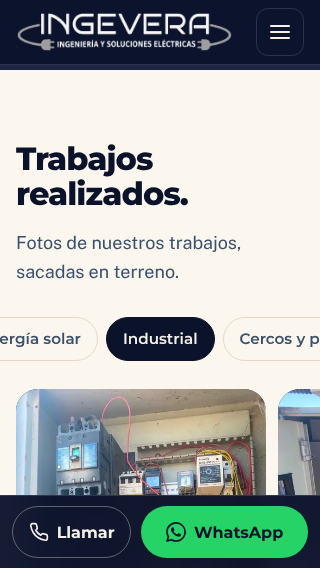
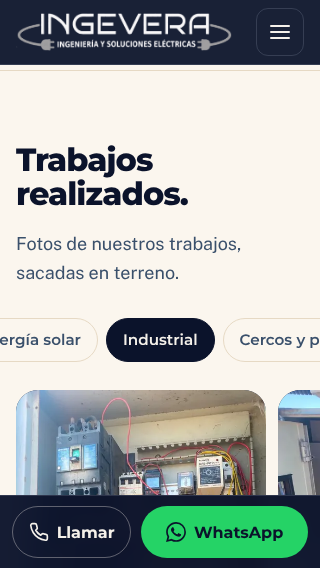
Mueve el carrusel de trabajos más arriba y lo pone primero en el menú
Claude-Session: https://claude.ai/code/session_01XSnBSsrrQd2tFnyhEzS5sg

diff --git a/index.html b/index.html
@@ -13,15 +13,15 @@
 <meta property="og:locale" content="es_CL">
 <meta property="og:title" content="INGEVERA · Ingeniería y Soluciones Eléctricas">
 <meta property="og:description" content="Desde la ampolleta hasta el empalme al poste. Electricidad para casas en Casablanca y arriendo de zanjadora.">
-<meta property="og:image" content="assets/img/icon-512.png?v=7">
+<meta property="og:image" content="assets/img/icon-512.png?v=8">
 <meta name="twitter:card" content="summary">
-<link rel="icon" type="image/svg+xml" href="favicon.svg?v=7">
-<link rel="icon" type="image/png" href="favicon.png?v=7" sizes="64x64">
-<link rel="apple-touch-icon" href="assets/img/apple-touch-icon.png?v=7">
+<link rel="icon" type="image/svg+xml" href="favicon.svg?v=8">
+<link rel="icon" type="image/png" href="favicon.png?v=8" sizes="64x64">
+<link rel="apple-touch-icon" href="assets/img/apple-touch-icon.png?v=8">
 <link rel="manifest" href="manifest.webmanifest">
 <link rel="preload" href="assets/fonts/Montserrat.woff2" as="font" type="font/woff2" crossorigin>
-<link rel="stylesheet" href="assets/fonts.css?v=7">
-<link rel="stylesheet" href="assets/styles.css?v=7">
+<link rel="stylesheet" href="assets/fonts.css?v=8">
+<link rel="stylesheet" href="assets/styles.css?v=8">
 <style>
 .splash{position:fixed;inset:0;z-index:200;display:none;overflow:hidden;color:#F5F1EA;background:radial-gradient(120% 70% at 50% 42%,#0E2A6B 0%,#081A48 45%,#050D26 100%);transition:opacity .6s cubic-bezier(.16,1,.3,1),visibility 0s .6s;-webkit-user-select:none;user-select:none}
 .splash-on .splash{display:block}
@@ -85,13 +85,13 @@
         </mask>
         <clipPath id="sp-l0" clipPathUnits="userSpaceOnUse"><rect x="322" y="325" width="30" height="160"/></clipPath><clipPath id="sp-l1" clipPathUnits="userSpaceOnUse"><rect x="370" y="325" width="151" height="160"/></clipPath><clipPath id="sp-l2" clipPathUnits="userSpaceOnUse"><rect x="536" y="325" width="152" height="160"/></clipPath><clipPath id="sp-l3" clipPathUnits="userSpaceOnUse"><rect x="706" y="325" width="133" height="160"/></clipPath><clipPath id="sp-l4" clipPathUnits="userSpaceOnUse"><rect x="845" y="325" width="165" height="160"/></clipPath><clipPath id="sp-l5" clipPathUnits="userSpaceOnUse"><rect x="1016" y="325" width="133" height="160"/></clipPath><clipPath id="sp-l6" clipPathUnits="userSpaceOnUse"><rect x="1164" y="325" width="147" height="160"/></clipPath><clipPath id="sp-l7" clipPathUnits="userSpaceOnUse"><rect x="1326" y="325" width="143" height="160"/></clipPath>
       </defs>
-      <image class="sp-c sp-c--tr" href="assets/img/sp-corner-tr.png?v=7" x="130" y="70" width="1500" height="760" preserveAspectRatio="none"/>
-      <image class="sp-c sp-c--bl" href="assets/img/sp-corner-bl.png?v=7" x="130" y="70" width="1500" height="760" preserveAspectRatio="none"/>
-      <image href="assets/img/sp-cable.png?v=7" x="130" y="70" width="1500" height="760" preserveAspectRatio="none" mask="url(#sp-wire)"/>
+      <image class="sp-c sp-c--tr" href="assets/img/sp-corner-tr.png?v=8" x="130" y="70" width="1500" height="760" preserveAspectRatio="none"/>
+      <image class="sp-c sp-c--bl" href="assets/img/sp-corner-bl.png?v=8" x="130" y="70" width="1500" height="760" preserveAspectRatio="none"/>
+      <image href="assets/img/sp-cable.png?v=8" x="130" y="70" width="1500" height="760" preserveAspectRatio="none" mask="url(#sp-wire)"/>
       <circle class="sp-spark" cx="428" cy="545" r="34"/>
       <circle class="sp-spark" cx="1376" cy="545" r="34"/>
-      <g class="sp-l" style="--i:0"><image href="assets/img/sp-word.png?v=7" x="130" y="70" width="1500" height="760" preserveAspectRatio="none" clip-path="url(#sp-l0)"/></g><g class="sp-l" style="--i:1"><image href="assets/img/sp-word.png?v=7" x="130" y="70" width="1500" height="760" preserveAspectRatio="none" clip-path="url(#sp-l1)"/></g><g class="sp-l" style="--i:2"><image href="assets/img/sp-word.png?v=7" x="130" y="70" width="1500" height="760" preserveAspectRatio="none" clip-path="url(#sp-l2)"/></g><g class="sp-l" style="--i:3"><image href="assets/img/sp-word.png?v=7" x="130" y="70" width="1500" height="760" preserveAspectRatio="none" clip-path="url(#sp-l3)"/></g><g class="sp-l" style="--i:4"><image href="assets/img/sp-word.png?v=7" x="130" y="70" width="1500" height="760" preserveAspectRatio="none" clip-path="url(#sp-l4)"/></g><g class="sp-l" style="--i:5"><image href="assets/img/sp-word.png?v=7" x="130" y="70" width="1500" height="760" preserveAspectRatio="none" clip-path="url(#sp-l5)"/></g><g class="sp-l" style="--i:6"><image href="assets/img/sp-word.png?v=7" x="130" y="70" width="1500" height="760" preserveAspectRatio="none" clip-path="url(#sp-l6)"/></g><g class="sp-l" style="--i:7"><image href="assets/img/sp-word.png?v=7" x="130" y="70" width="1500" height="760" preserveAspectRatio="none" clip-path="url(#sp-l7)"/></g>
-      <image class="sp-slogan" href="assets/img/sp-slogan.png?v=7" x="130" y="70" width="1500" height="760" preserveAspectRatio="none"/>
+      <g class="sp-l" style="--i:0"><image href="assets/img/sp-word.png?v=8" x="130" y="70" width="1500" height="760" preserveAspectRatio="none" clip-path="url(#sp-l0)"/></g><g class="sp-l" style="--i:1"><image href="assets/img/sp-word.png?v=8" x="130" y="70" width="1500" height="760" preserveAspectRatio="none" clip-path="url(#sp-l1)"/></g><g class="sp-l" style="--i:2"><image href="assets/img/sp-word.png?v=8" x="130" y="70" width="1500" height="760" preserveAspectRatio="none" clip-path="url(#sp-l2)"/></g><g class="sp-l" style="--i:3"><image href="assets/img/sp-word.png?v=8" x="130" y="70" width="1500" height="760" preserveAspectRatio="none" clip-path="url(#sp-l3)"/></g><g class="sp-l" style="--i:4"><image href="assets/img/sp-word.png?v=8" x="130" y="70" width="1500" height="760" preserveAspectRatio="none" clip-path="url(#sp-l4)"/></g><g class="sp-l" style="--i:5"><image href="assets/img/sp-word.png?v=8" x="130" y="70" width="1500" height="760" preserveAspectRatio="none" clip-path="url(#sp-l5)"/></g><g class="sp-l" style="--i:6"><image href="assets/img/sp-word.png?v=8" x="130" y="70" width="1500" height="760" preserveAspectRatio="none" clip-path="url(#sp-l6)"/></g><g class="sp-l" style="--i:7"><image href="assets/img/sp-word.png?v=8" x="130" y="70" width="1500" height="760" preserveAspectRatio="none" clip-path="url(#sp-l7)"/></g>
+      <image class="sp-slogan" href="assets/img/sp-slogan.png?v=8" x="130" y="70" width="1500" height="760" preserveAspectRatio="none"/>
     </svg>
     <div class="splash__load"><div class="splash__bar"><i></i></div><span>Cargando…</span></div>
   </div>
@@ -145,12 +145,12 @@ addEventListener('keydown',function(e){if(e.key==='Escape')end()});
 <header class="nav" id="top">
   <div class="wrap nav__in">
     <a class="nav__logo" href="#top" aria-label="INGEVERA, ir al inicio">
-      <img src="assets/img/logo-core.png?v=7" alt="INGEVERA, Ingeniería y Soluciones Eléctricas" width="1000" height="175">
+      <img src="assets/img/logo-core.png?v=8" alt="INGEVERA, Ingeniería y Soluciones Eléctricas" width="1000" height="175">
     </a>
     <nav class="nav__links" aria-label="Secciones">
+      <a href="#trabajos">Trabajos</a>
       <a href="#servicios">Servicios</a>
       <a href="#zanjadora">Arriendo de zanjadora</a>
-      <a href="#trabajos">Trabajos</a>
       <a href="#horario">Horario y zona</a>
       <a href="#contacto">Contacto</a>
     </nav>
@@ -243,6 +243,113 @@ addEventListener('keydown',function(e){if(e.key==='Escape')end()});
       </li>
     </ol>
   </div>
+</section>
+
+<section class="works" id="trabajos" aria-labelledby="h-works">
+  <div class="wrap">
+    <div class="works__top">
+      <div class="head">
+        <h2 id="h-works">Trabajos realizados.</h2>
+        <p>Fotos de nuestros trabajos, sacadas en terreno.</p>
+      </div>
+      <div class="works__nav">
+        <button type="button" class="works__arrow" data-dir="-1" aria-label="Foto anterior"><svg viewBox="0 0 24 24" aria-hidden="true"><path d="M15 5l-7 7 7 7"/></svg></button>
+        <button type="button" class="works__arrow" data-dir="1" aria-label="Foto siguiente"><svg viewBox="0 0 24 24" aria-hidden="true"><path d="M9 5l7 7-7 7"/></svg></button>
+      </div>
+    </div>
+    <div class="chips" role="group" aria-label="Filtrar trabajos"><button type="button" class="chip" data-cat="todo" aria-pressed="true">Todo</button><button type="button" class="chip" data-cat="empalmes" aria-pressed="false">Empalmes</button><button type="button" class="chip" data-cat="tableros" aria-pressed="false">Tableros</button><button type="button" class="chip" data-cat="solar" aria-pressed="false">Energía solar</button><button type="button" class="chip" data-cat="industrial" aria-pressed="false">Industrial</button><button type="button" class="chip" data-cat="cercos" aria-pressed="false">Cercos y portones</button><button type="button" class="chip" data-cat="tierra" aria-pressed="false">Puesta a tierra</button><button type="button" class="chip" data-cat="zanjadora" aria-pressed="false">Zanjadora</button></div>
+  </div>
+  <ul class="works__track" id="works-track" tabindex="0" aria-label="Galería de trabajos, desliza para ver más">
+        <li class="works__item" data-cat="empalmes"><figure>
+          <img src="assets/img/fotos/g-empalmes-480.webp" srcset="assets/img/fotos/g-empalmes-480.webp 480w, assets/img/fotos/g-empalmes-800.webp 800w" sizes="(max-width: 860px) 78vw, 320px" loading="lazy" decoding="async" width="480" height="600" alt="Poste con tres empalmes y medidores">
+          <figcaption><span>Empalmes</span>Poste con tres empalmes y medidores</figcaption>
+        </figure></li>
+        <li class="works__item" data-cat="empalmes"><figure>
+          <img src="assets/img/fotos/g-empalme-medidor-480.webp" srcset="assets/img/fotos/g-empalme-medidor-480.webp 480w, assets/img/fotos/g-empalme-medidor-800.webp 800w" sizes="(max-width: 860px) 78vw, 320px" loading="lazy" decoding="async" width="480" height="600" alt="Empalme con medidor en poste metálico">
+          <figcaption><span>Empalmes</span>Empalme con medidor en poste metálico</figcaption>
+        </figure></li>
+        <li class="works__item" data-cat="empalmes"><figure>
+          <img src="assets/img/fotos/g-medidor-poste-480.webp" srcset="assets/img/fotos/g-medidor-poste-480.webp 480w, assets/img/fotos/g-medidor-poste-800.webp 800w" sizes="(max-width: 860px) 78vw, 320px" loading="lazy" decoding="async" width="480" height="600" alt="Medidor instalado en poste de madera">
+          <figcaption><span>Empalmes</span>Medidor instalado en poste de madera</figcaption>
+        </figure></li>
+        <li class="works__item" data-cat="empalmes"><figure>
+          <img src="assets/img/fotos/g-empalme-terreno-480.webp" srcset="assets/img/fotos/g-empalme-terreno-480.webp 480w, assets/img/fotos/g-empalme-terreno-800.webp 800w" sizes="(max-width: 860px) 78vw, 320px" loading="lazy" decoding="async" width="480" height="600" alt="Empalme nuevo en una parcela">
+          <figcaption><span>Empalmes</span>Empalme nuevo en una parcela</figcaption>
+        </figure></li>
+        <li class="works__item" data-cat="tableros"><figure>
+          <img src="assets/img/fotos/g-tablero-cableado-480.webp" srcset="assets/img/fotos/g-tablero-cableado-480.webp 480w, assets/img/fotos/g-tablero-cableado-800.webp 800w" sizes="(max-width: 860px) 78vw, 320px" loading="lazy" decoding="async" width="480" height="600" alt="Tablero domiciliario cableado y ordenado">
+          <figcaption><span>Tableros</span>Tablero domiciliario cableado y ordenado</figcaption>
+        </figure></li>
+        <li class="works__item" data-cat="tableros"><figure>
+          <img src="assets/img/fotos/g-tablero-terminado-480.webp" srcset="assets/img/fotos/g-tablero-terminado-480.webp 480w, assets/img/fotos/g-tablero-terminado-800.webp 800w" sizes="(max-width: 860px) 78vw, 320px" loading="lazy" decoding="async" width="480" height="600" alt="El mismo tablero, terminado con su tapa">
+          <figcaption><span>Tableros</span>El mismo tablero, terminado con su tapa</figcaption>
+        </figure></li>
+        <li class="works__item" data-cat="tableros"><figure>
+          <img src="assets/img/fotos/g-tablero-protector-480.webp" srcset="assets/img/fotos/g-tablero-protector-480.webp 480w, assets/img/fotos/g-tablero-protector-800.webp 800w" sizes="(max-width: 860px) 78vw, 320px" loading="lazy" decoding="async" width="480" height="600" alt="Diferenciales y protector de voltaje">
+          <figcaption><span>Tableros</span>Diferenciales y protector de voltaje</figcaption>
+        </figure></li>
+        <li class="works__item" data-cat="solar"><figure>
+          <img src="assets/img/fotos/g-solar-casa-480.webp" srcset="assets/img/fotos/g-solar-casa-480.webp 480w, assets/img/fotos/g-solar-casa-768.webp 768w" sizes="(max-width: 860px) 78vw, 320px" loading="lazy" decoding="async" width="480" height="600" alt="Paneles solares en una casa con piscina">
+          <figcaption><span>Energía solar</span>Paneles solares en una casa con piscina</figcaption>
+        </figure></li>
+        <li class="works__item" data-cat="solar"><figure>
+          <img src="assets/img/fotos/g-solar-paneles-480.webp" srcset="assets/img/fotos/g-solar-paneles-480.webp 480w, assets/img/fotos/g-solar-paneles-768.webp 768w" sizes="(max-width: 860px) 78vw, 320px" loading="lazy" decoding="async" width="480" height="600" alt="Estructura y paneles sobre techo de tejas">
+          <figcaption><span>Energía solar</span>Estructura y paneles sobre techo de tejas</figcaption>
+        </figure></li>
+        <li class="works__item" data-cat="solar"><figure>
+          <img src="assets/img/fotos/g-solar-instalacion-480.webp" srcset="assets/img/fotos/g-solar-instalacion-480.webp 480w, assets/img/fotos/g-solar-instalacion-768.webp 768w" sizes="(max-width: 860px) 78vw, 320px" loading="lazy" decoding="async" width="480" height="600" alt="Inversor y tablero solar rotulado">
+          <figcaption><span>Energía solar</span>Inversor y tablero solar rotulado</figcaption>
+        </figure></li>
+        <li class="works__item" data-cat="solar"><figure>
+          <img src="assets/img/fotos/g-solar-inversor-480.webp" srcset="assets/img/fotos/g-solar-inversor-480.webp 480w, assets/img/fotos/g-solar-inversor-575.webp 575w" sizes="(max-width: 860px) 78vw, 320px" loading="lazy" decoding="async" width="480" height="600" alt="Inversor solar junto al tablero general">
+          <figcaption><span>Energía solar</span>Inversor solar junto al tablero general</figcaption>
+        </figure></li>
+        <li class="works__item" data-cat="solar"><figure>
+          <img src="assets/img/fotos/g-solar-growatt-480.webp" srcset="assets/img/fotos/g-solar-growatt-480.webp 480w, assets/img/fotos/g-solar-growatt-768.webp 768w" sizes="(max-width: 860px) 78vw, 320px" loading="lazy" decoding="async" width="480" height="600" alt="Inversor instalado en muro">
+          <figcaption><span>Energía solar</span>Inversor instalado en muro</figcaption>
+        </figure></li>
+        <li class="works__item" data-cat="industrial"><figure>
+          <img src="assets/img/fotos/g-bombas-480.webp" srcset="assets/img/fotos/g-bombas-480.webp 480w, assets/img/fotos/g-bombas-800.webp 800w" sizes="(max-width: 860px) 78vw, 320px" loading="lazy" decoding="async" width="480" height="600" alt="Tablero de fuerza para bombas, partida estrella-triángulo">
+          <figcaption><span>Industrial</span>Tablero de fuerza para bombas, partida estrella-triángulo</figcaption>
+        </figure></li>
+        <li class="works__item" data-cat="industrial"><figure>
+          <img src="assets/img/fotos/g-compensacion-480.webp" srcset="assets/img/fotos/g-compensacion-480.webp 480w, assets/img/fotos/g-compensacion-800.webp 800w" sizes="(max-width: 860px) 78vw, 320px" loading="lazy" decoding="async" width="480" height="600" alt="Tablero de compensación de factor de potencia">
+          <figcaption><span>Industrial</span>Tablero de compensación de factor de potencia</figcaption>
+        </figure></li>
+        <li class="works__item" data-cat="industrial"><figure>
+          <img src="assets/img/fotos/g-compensacion-controlador-480.webp" srcset="assets/img/fotos/g-compensacion-controlador-480.webp 480w, assets/img/fotos/g-compensacion-controlador-800.webp 800w" sizes="(max-width: 860px) 78vw, 320px" loading="lazy" decoding="async" width="480" height="600" alt="Controlador de factor de potencia en la puerta del tablero">
+          <figcaption><span>Industrial</span>Controlador de factor de potencia en la puerta del tablero</figcaption>
+        </figure></li>
+        <li class="works__item" data-cat="industrial"><figure>
+          <img src="assets/img/fotos/g-contactores-480.webp" srcset="assets/img/fotos/g-contactores-480.webp 480w, assets/img/fotos/g-contactores-800.webp 800w" sizes="(max-width: 860px) 78vw, 320px" loading="lazy" decoding="async" width="480" height="600" alt="Contactores para banco de condensadores">
+          <figcaption><span>Industrial</span>Contactores para banco de condensadores</figcaption>
+        </figure></li>
+        <li class="works__item" data-cat="cercos"><figure>
+          <img src="assets/img/fotos/g-cerco-placa-480.webp" srcset="assets/img/fotos/g-cerco-placa-480.webp 480w, assets/img/fotos/g-cerco-placa-800.webp 800w" sizes="(max-width: 860px) 78vw, 320px" loading="lazy" decoding="async" width="480" height="600" alt="Reparación de energizador de cerco eléctrico">
+          <figcaption><span>Cercos y portones</span>Reparación de energizador de cerco eléctrico</figcaption>
+        </figure></li>
+        <li class="works__item" data-cat="cercos"><figure>
+          <img src="assets/img/fotos/g-cerco-energizador-480.webp" srcset="assets/img/fotos/g-cerco-energizador-480.webp 480w, assets/img/fotos/g-cerco-energizador-800.webp 800w" sizes="(max-width: 860px) 78vw, 320px" loading="lazy" decoding="async" width="480" height="600" alt="Energizador de cerco eléctrico instalado">
+          <figcaption><span>Cercos y portones</span>Energizador de cerco eléctrico instalado</figcaption>
+        </figure></li>
+        <li class="works__item" data-cat="cercos"><figure>
+          <img src="assets/img/fotos/g-porton-placa-480.webp" srcset="assets/img/fotos/g-porton-placa-480.webp 480w, assets/img/fotos/g-porton-placa-800.webp 800w" sizes="(max-width: 860px) 78vw, 320px" loading="lazy" decoding="async" width="480" height="600" alt="Placa de motor de portón reparada">
+          <figcaption><span>Cercos y portones</span>Placa de motor de portón reparada</figcaption>
+        </figure></li>
+        <li class="works__item" data-cat="tierra"><figure>
+          <img src="assets/img/fotos/g-puesta-tierra-480.webp" srcset="assets/img/fotos/g-puesta-tierra-480.webp 480w, assets/img/fotos/g-puesta-tierra-800.webp 800w" sizes="(max-width: 860px) 78vw, 320px" loading="lazy" decoding="async" width="480" height="600" alt="Medición de puesta a tierra con telurómetro">
+          <figcaption><span>Puesta a tierra</span>Medición de puesta a tierra con telurómetro</figcaption>
+        </figure></li>
+        <li class="works__item" data-cat="zanjadora"><figure>
+          <img src="assets/img/fotos/g-zanjadora-cavando-480.webp" srcset="assets/img/fotos/g-zanjadora-cavando-480.webp 480w, assets/img/fotos/g-zanjadora-cavando-720.webp 720w" sizes="(max-width: 860px) 78vw, 320px" loading="lazy" decoding="async" width="480" height="600" alt="Zanjadora abriendo una zanja">
+          <figcaption><span>Zanjadora</span>Zanjadora abriendo una zanja</figcaption>
+        </figure></li>
+        <li class="works__item" data-cat="zanjadora"><figure>
+          <img src="assets/img/fotos/g-zanjadora-carro-480.webp" srcset="assets/img/fotos/g-zanjadora-carro-480.webp 480w, assets/img/fotos/g-zanjadora-carro-768.webp 768w" sizes="(max-width: 860px) 78vw, 320px" loading="lazy" decoding="async" width="480" height="600" alt="Zanjadora en su carro, lista para salir">
+          <figcaption><span>Zanjadora</span>Zanjadora en su carro, lista para salir</figcaption>
+        </figure></li>
+  </ul>
+  <div class="wrap"><p class="works__count" id="works-count" aria-live="polite"></p></div>
 </section>
 
 <section class="services" id="servicios" aria-labelledby="h-services">
@@ -369,113 +476,6 @@ addEventListener('keydown',function(e){if(e.key==='Escape')end()});
   </div>
 </section>
 
-<section class="works" id="trabajos" aria-labelledby="h-works">
-  <div class="wrap">
-    <div class="works__top">
-      <div class="head">
-        <h2 id="h-works">Trabajos realizados.</h2>
-        <p>Fotos de nuestros trabajos, sacadas en terreno.</p>
-      </div>
-      <div class="works__nav">
-        <button type="button" class="works__arrow" data-dir="-1" aria-label="Foto anterior"><svg viewBox="0 0 24 24" aria-hidden="true"><path d="M15 5l-7 7 7 7"/></svg></button>
-        <button type="button" class="works__arrow" data-dir="1" aria-label="Foto siguiente"><svg viewBox="0 0 24 24" aria-hidden="true"><path d="M9 5l7 7-7 7"/></svg></button>
-      </div>
-    </div>
-    <div class="chips" role="group" aria-label="Filtrar trabajos"><button type="button" class="chip" data-cat="todo" aria-pressed="true">Todo</button><button type="button" class="chip" data-cat="empalmes" aria-pressed="false">Empalmes</button><button type="button" class="chip" data-cat="tableros" aria-pressed="false">Tableros</button><button type="button" class="chip" data-cat="solar" aria-pressed="false">Energía solar</button><button type="button" class="chip" data-cat="industrial" aria-pressed="false">Industrial</button><button type="button" class="chip" data-cat="cercos" aria-pressed="false">Cercos y portones</button><button type="button" class="chip" data-cat="tierra" aria-pressed="false">Puesta a tierra</button><button type="button" class="chip" data-cat="zanjadora" aria-pressed="false">Zanjadora</button></div>
-  </div>
-  <ul class="works__track" id="works-track" tabindex="0" aria-label="Galería de trabajos, desliza para ver más">
-        <li class="works__item" data-cat="empalmes"><figure>
-          <img src="assets/img/fotos/g-empalmes-480.webp" srcset="assets/img/fotos/g-empalmes-480.webp 480w, assets/img/fotos/g-empalmes-800.webp 800w" sizes="(max-width: 860px) 78vw, 320px" loading="lazy" decoding="async" width="480" height="600" alt="Poste con tres empalmes y medidores">
-          <figcaption><span>Empalmes</span>Poste con tres empalmes y medidores</figcaption>
-        </figure></li>
-        <li class="works__item" data-cat="empalmes"><figure>
-          <img src="assets/img/fotos/g-empalme-medidor-480.webp" srcset="assets/img/fotos/g-empalme-medidor-480.webp 480w, assets/img/fotos/g-empalme-medidor-800.webp 800w" sizes="(max-width: 860px) 78vw, 320px" loading="lazy" decoding="async" width="480" height="600" alt="Empalme con medidor en poste metálico">
-          <figcaption><span>Empalmes</span>Empalme con medidor en poste metálico</figcaption>
-        </figure></li>
-        <li class="works__item" data-cat="empalmes"><figure>
-          <img src="assets/img/fotos/g-medidor-poste-480.webp" srcset="assets/img/fotos/g-medidor-poste-480.webp 480w, assets/img/fotos/g-medidor-poste-800.webp 800w" sizes="(max-width: 860px) 78vw, 320px" loading="lazy" decoding="async" width="480" height="600" alt="Medidor instalado en poste de madera">
-          <figcaption><span>Empalmes</span>Medidor instalado en poste de madera</figcaption>
-        </figure></li>
-        <li class="works__item" data-cat="empalmes"><figure>
-          <img src="assets/img/fotos/g-empalme-terreno-480.webp" srcset="assets/img/fotos/g-empalme-terreno-480.webp 480w, assets/img/fotos/g-empalme-terreno-800.webp 800w" sizes="(max-width: 860px) 78vw, 320px" loading="lazy" decoding="async" width="480" height="600" alt="Empalme nuevo en una parcela">
-          <figcaption><span>Empalmes</span>Empalme nuevo en una parcela</figcaption>
-        </figure></li>
-        <li class="works__item" data-cat="tableros"><figure>
-          <img src="assets/img/fotos/g-tablero-cableado-480.webp" srcset="assets/img/fotos/g-tablero-cableado-480.webp 480w, assets/img/fotos/g-tablero-cableado-800.webp 800w" sizes="(max-width: 860px) 78vw, 320px" loading="lazy" decoding="async" width="480" height="600" alt="Tablero domiciliario cableado y ordenado">
-          <figcaption><span>Tableros</span>Tablero domiciliario cableado y ordenado</figcaption>
-        </figure></li>
-        <li class="works__item" data-cat="tableros"><figure>
-          <img src="assets/img/fotos/g-tablero-terminado-480.webp" srcset="assets/img/fotos/g-tablero-terminado-480.webp 480w, assets/img/fotos/g-tablero-terminado-800.webp 800w" sizes="(max-width: 860px) 78vw, 320px" loading="lazy" decoding="async" width="480" height="600" alt="El mismo tablero, terminado con su tapa">
-          <figcaption><span>Tableros</span>El mismo tablero, terminado con su tapa</figcaption>
-        </figure></li>
-        <li class="works__item" data-cat="tableros"><figure>
-          <img src="assets/img/fotos/g-tablero-protector-480.webp" srcset="assets/img/fotos/g-tablero-protector-480.webp 480w, assets/img/fotos/g-tablero-protector-800.webp 800w" sizes="(max-width: 860px) 78vw, 320px" loading="lazy" decoding="async" width="480" height="600" alt="Diferenciales y protector de voltaje">
-          <figcaption><span>Tableros</span>Diferenciales y protector de voltaje</figcaption>
-        </figure></li>
-        <li class="works__item" data-cat="solar"><figure>
-          <img src="assets/img/fotos/g-solar-casa-480.webp" srcset="assets/img/fotos/g-solar-casa-480.webp 480w, assets/img/fotos/g-solar-casa-768.webp 768w" sizes="(max-width: 860px) 78vw, 320px" loading="lazy" decoding="async" width="480" height="600" alt="Paneles solares en una casa con piscina">
-          <figcaption><span>Energía solar</span>Paneles solares en una casa con piscina</figcaption>
-        </figure></li>
-        <li class="works__item" data-cat="solar"><figure>
-          <img src="assets/img/fotos/g-solar-paneles-480.webp" srcset="assets/img/fotos/g-solar-paneles-480.webp 480w, assets/img/fotos/g-solar-paneles-768.webp 768w" sizes="(max-width: 860px) 78vw, 320px" loading="lazy" decoding="async" width="480" height="600" alt="Estructura y paneles sobre techo de tejas">
-          <figcaption><span>Energía solar</span>Estructura y paneles sobre techo de tejas</figcaption>
-        </figure></li>
-        <li class="works__item" data-cat="solar"><figure>
-          <img src="assets/img/fotos/g-solar-instalacion-480.webp" srcset="assets/img/fotos/g-solar-instalacion-480.webp 480w, assets/img/fotos/g-solar-instalacion-768.webp 768w" sizes="(max-width: 860px) 78vw, 320px" loading="lazy" decoding="async" width="480" height="600" alt="Inversor y tablero solar rotulado">
-          <figcaption><span>Energía solar</span>Inversor y tablero solar rotulado</figcaption>
-        </figure></li>
-        <li class="works__item" data-cat="solar"><figure>
-          <img src="assets/img/fotos/g-solar-inversor-480.webp" srcset="assets/img/fotos/g-solar-inversor-480.webp 480w, assets/img/fotos/g-solar-inversor-575.webp 575w" sizes="(max-width: 860px) 78vw, 320px" loading="lazy" decoding="async" width="480" height="600" alt="Inversor solar junto al tablero general">
-          <figcaption><span>Energía solar</span>Inversor solar junto al tablero general</figcaption>
-        </figure></li>
-        <li class="works__item" data-cat="solar"><figure>
-          <img src="assets/img/fotos/g-solar-growatt-480.webp" srcset="assets/img/fotos/g-solar-growatt-480.webp 480w, assets/img/fotos/g-solar-growatt-768.webp 768w" sizes="(max-width: 860px) 78vw, 320px" loading="lazy" decoding="async" width="480" height="600" alt="Inversor instalado en muro">
-          <figcaption><span>Energía solar</span>Inversor instalado en muro</figcaption>
-        </figure></li>
-        <li class="works__item" data-cat="industrial"><figure>
-          <img src="assets/img/fotos/g-bombas-480.webp" srcset="assets/img/fotos/g-bombas-480.webp 480w, assets/img/fotos/g-bombas-800.webp 800w" sizes="(max-width: 860px) 78vw, 320px" loading="lazy" decoding="async" width="480" height="600" alt="Tablero de fuerza para bombas, partida estrella-triángulo">
-          <figcaption><span>Industrial</span>Tablero de fuerza para bombas, partida estrella-triángulo</figcaption>
-        </figure></li>
-        <li class="works__item" data-cat="industrial"><figure>
-          <img src="assets/img/fotos/g-compensacion-480.webp" srcset="assets/img/fotos/g-compensacion-480.webp 480w, assets/img/fotos/g-compensacion-800.webp 800w" sizes="(max-width: 860px) 78vw, 320px" loading="lazy" decoding="async" width="480" height="600" alt="Tablero de compensación de factor de potencia">
-          <figcaption><span>Industrial</span>Tablero de compensación de factor de potencia</figcaption>
-        </figure></li>
-        <li class="works__item" data-cat="industrial"><figure>
-          <img src="assets/img/fotos/g-compensacion-controlador-480.webp" srcset="assets/img/fotos/g-compensacion-controlador-480.webp 480w, assets/img/fotos/g-compensacion-controlador-800.webp 800w" sizes="(max-width: 860px) 78vw, 320px" loading="lazy" decoding="async" width="480" height="600" alt="Controlador de factor de potencia en la puerta del tablero">
-          <figcaption><span>Industrial</span>Controlador de factor de potencia en la puerta del tablero</figcaption>
-        </figure></li>
-        <li class="works__item" data-cat="industrial"><figure>
-          <img src="assets/img/fotos/g-contactores-480.webp" srcset="assets/img/fotos/g-contactores-480.webp 480w, assets/img/fotos/g-contactores-800.webp 800w" sizes="(max-width: 860px) 78vw, 320px" loading="lazy" decoding="async" width="480" height="600" alt="Contactores para banco de condensadores">
-          <figcaption><span>Industrial</span>Contactores para banco de condensadores</figcaption>
-        </figure></li>
-        <li class="works__item" data-cat="cercos"><figure>
-          <img src="assets/img/fotos/g-cerco-placa-480.webp" srcset="assets/img/fotos/g-cerco-placa-480.webp 480w, assets/img/fotos/g-cerco-placa-800.webp 800w" sizes="(max-width: 860px) 78vw, 320px" loading="lazy" decoding="async" width="480" height="600" alt="Reparación de energizador de cerco eléctrico">
-          <figcaption><span>Cercos y portones</span>Reparación de energizador de cerco eléctrico</figcaption>
-        </figure></li>
-        <li class="works__item" data-cat="cercos"><figure>
-          <img src="assets/img/fotos/g-cerco-energizador-480.webp" srcset="assets/img/fotos/g-cerco-energizador-480.webp 480w, assets/img/fotos/g-cerco-energizador-800.webp 800w" sizes="(max-width: 860px) 78vw, 320px" loading="lazy" decoding="async" width="480" height="600" alt="Energizador de cerco eléctrico instalado">
-          <figcaption><span>Cercos y portones</span>Energizador de cerco eléctrico instalado</figcaption>
-        </figure></li>
-        <li class="works__item" data-cat="cercos"><figure>
-          <img src="assets/img/fotos/g-porton-placa-480.webp" srcset="assets/img/fotos/g-porton-placa-480.webp 480w, assets/img/fotos/g-porton-placa-800.webp 800w" sizes="(max-width: 860px) 78vw, 320px" loading="lazy" decoding="async" width="480" height="600" alt="Placa de motor de portón reparada">
-          <figcaption><span>Cercos y portones</span>Placa de motor de portón reparada</figcaption>
-        </figure></li>
-        <li class="works__item" data-cat="tierra"><figure>
-          <img src="assets/img/fotos/g-puesta-tierra-480.webp" srcset="assets/img/fotos/g-puesta-tierra-480.webp 480w, assets/img/fotos/g-puesta-tierra-800.webp 800w" sizes="(max-width: 860px) 78vw, 320px" loading="lazy" decoding="async" width="480" height="600" alt="Medición de puesta a tierra con telurómetro">
-          <figcaption><span>Puesta a tierra</span>Medición de puesta a tierra con telurómetro</figcaption>
-        </figure></li>
-        <li class="works__item" data-cat="zanjadora"><figure>
-          <img src="assets/img/fotos/g-zanjadora-cavando-480.webp" srcset="assets/img/fotos/g-zanjadora-cavando-480.webp 480w, assets/img/fotos/g-zanjadora-cavando-720.webp 720w" sizes="(max-width: 860px) 78vw, 320px" loading="lazy" decoding="async" width="480" height="600" alt="Zanjadora abriendo una zanja">
-          <figcaption><span>Zanjadora</span>Zanjadora abriendo una zanja</figcaption>
-        </figure></li>
-        <li class="works__item" data-cat="zanjadora"><figure>
-          <img src="assets/img/fotos/g-zanjadora-carro-480.webp" srcset="assets/img/fotos/g-zanjadora-carro-480.webp 480w, assets/img/fotos/g-zanjadora-carro-768.webp 768w" sizes="(max-width: 860px) 78vw, 320px" loading="lazy" decoding="async" width="480" height="600" alt="Zanjadora en su carro, lista para salir">
-          <figcaption><span>Zanjadora</span>Zanjadora en su carro, lista para salir</figcaption>
-        </figure></li>
-  </ul>
-  <div class="wrap"><p class="works__count" id="works-count" aria-live="polite"></p></div>
-</section>
-
 <section class="steps" id="como" aria-labelledby="h-steps">
   <div class="wrap">
     <div class="head">
@@ -573,7 +573,7 @@ addEventListener('keydown',function(e){if(e.key==='Escape')end()});
 
 <footer class="foot">
   <div class="wrap foot__grid">
-    <img class="foot__logo" src="assets/img/logo-full.png?v=7" alt="INGEVERA, Ingeniería y Soluciones Eléctricas" width="1200" height="605" loading="lazy">
+    <img class="foot__logo" src="assets/img/logo-full.png?v=8" alt="INGEVERA, Ingeniería y Soluciones Eléctricas" width="1200" height="605" loading="lazy">
     <ul class="foot__list">
       <li><a href="tel:+56987532943">+56 9 8753 2943</a></li>
       <li><a href="https://wa.me/56987532943" target="_blank" rel="noopener">WhatsApp</a></li>
@@ -607,6 +607,6 @@ addEventListener('keydown',function(e){if(e.key==='Escape')end()});
   <symbol id="i-check" viewBox="0 0 24 24"><path d="M20 6 9 17l-5-5"/></symbol>
 </svg>
 
-<script src="assets/app.js?v=7" defer></script>
+<script src="assets/app.js?v=8" defer></script>
 </body>
 </html>

diff --git a/sw.js b/sw.js
@@ -1,5 +1,5 @@
-const CACHE = 'ingevera-v7';
-const SHELL = ['./', 'index.html', 'assets/styles.css?v=7', 'assets/fonts.css?v=7', 'assets/app.js?v=7', 'assets/fonts/Montserrat.woff2', 'assets/fonts/PublicSans.woff2', 'assets/img/logo-core.png?v=7', 'favicon.png?v=7'];
+const CACHE = 'ingevera-v8';
+const SHELL = ['./', 'index.html', 'assets/styles.css?v=8', 'assets/fonts.css?v=8', 'assets/app.js?v=8', 'assets/fonts/Montserrat.woff2', 'assets/fonts/PublicSans.woff2', 'assets/img/logo-core.png?v=8', 'favicon.png?v=8'];
 self.addEventListener('install', e => { e.waitUntil(caches.open(CACHE).then(c => c.addAll(SHELL)).then(() => self.skipWaiting())); });
 self.addEventListener('activate', e => { e.waitUntil(caches.keys().then(ks => Promise.all(ks.filter(k => k !== CACHE).map(k => caches.delete(k)))).then(() => self.clients.claim())); });
 self.addEventListener('fetch', e => {

diff --git a/assets/styles.css b/assets/styles.css
@@ -289,7 +289,7 @@ section{position:relative}
 .more__item p{margin:8px 20px 22px;color:var(--ink-2);font-size:1rem}
 
 /* Works carousel */
-.works{padding-block:var(--sec);overflow:hidden}
+.works{padding-block:var(--sec);overflow:hidden;border-top:1px solid var(--line)}
 .works__top{display:flex;align-items:flex-end;justify-content:space-between;gap:24px}
 .works__top .head{margin-bottom:28px}
 .works__nav{display:flex;gap:10px;margin-bottom:32px}
